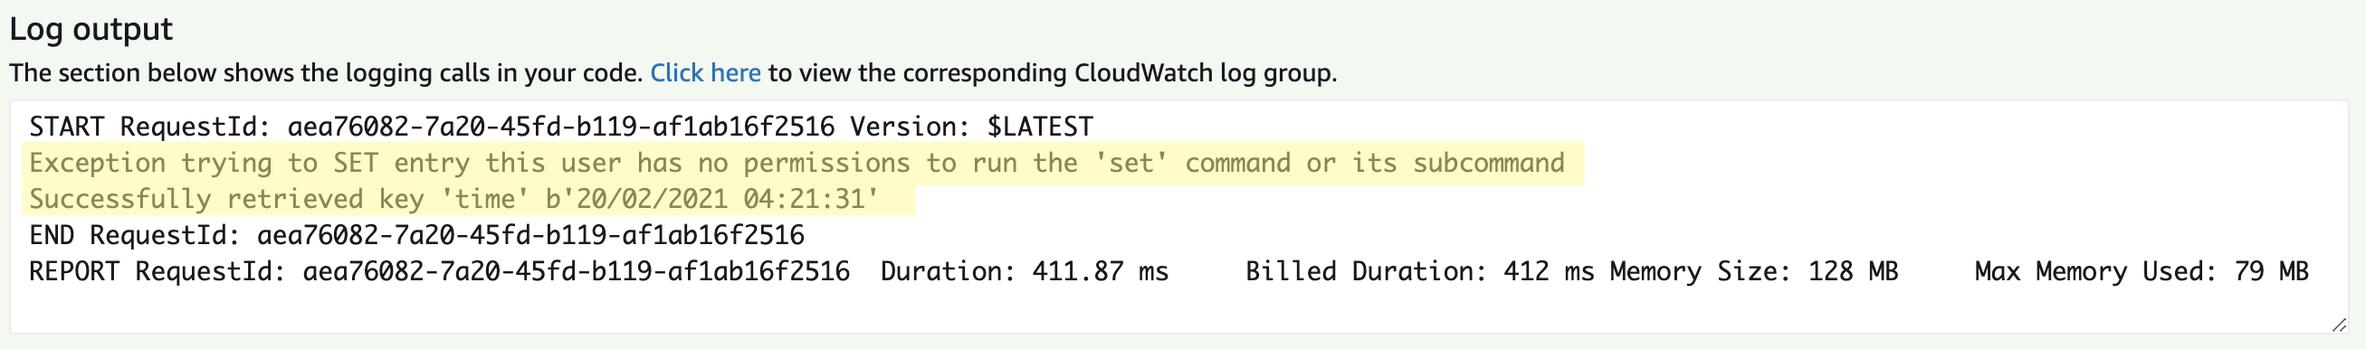
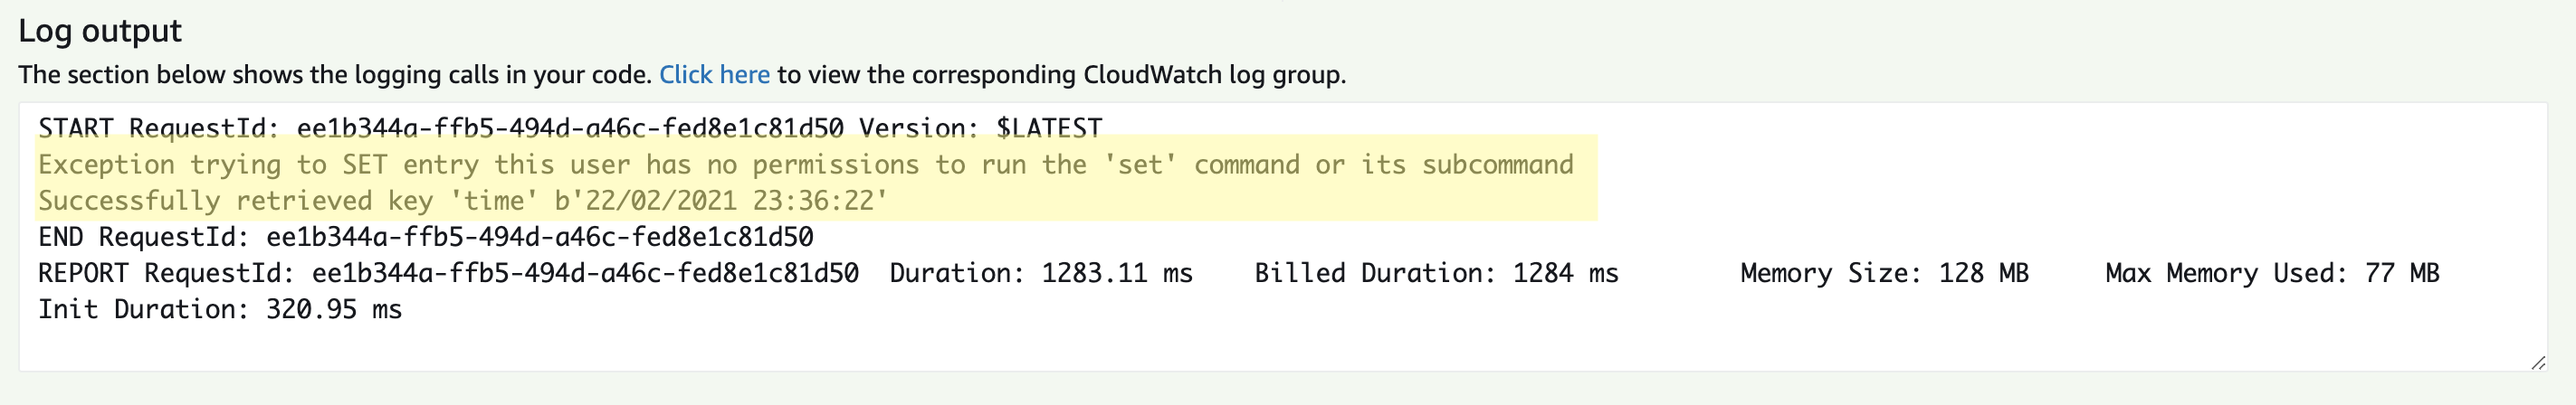
Added architecture documentation and updated images

diff --git a/docs/architecture.md b/docs/architecture.md
@@ -1,0 +1,284 @@
+# AWS ElastiCache support for Redis Role Based Access Control (RBAC)
+
+With Amazon ElastiCache for Redis 6, you can control cluster access via a feature called Role-Based Access Control (RBAC).  Through RBAC, you can define Access Control Lists (ACLs) that model access patterns – allowing you to better define who can access a Redis cluster and what commands and keys they can access.
+
+When configured for RBAC, ElastiCache Redis replication groups will authenticate RBAC users based on the username and password provided when connections are established, and Redis commands and key access are authorized by the access strings (defined in Redis ACL syntax) for each RBAC user.
+
+![rbac user](img/rbac_user_example.png)
+
+Redis RBAC users and ACLs, however, are not linked to AWS Identity Access Management (IAM) roles, groups or users; the dissociation between AWS IAM and Redis RBAC means that there is no out-of-the-box way to grant IAM entities (roles, users or groups) read and write access to Redis.
+
+In this blog, we will present a solution that will allow you to associate IAM entities with ElastiCache RBAC users and ACLs. The overall solution will demonstrate how RBAC users can effectively be associated with IAM through the user of AWS Secrets Manager as a proxy for granting access to RBAC user credentials.
+
+*	A set of Redis RBAC users will be defined; each with usernames, passwords and ACL access strings – this will define the commands and keys that a user has access to.
+
+*	IAM entities (roles, users, groups) will be granted access to RBAC user credentials (username and password) stored in AWS Secrets Manager through secret policies and IAM policies.
+
+*	Users, applications and services that have roles or users that can access RBAC user credentials from Secrets Manager can then use them to connect to ElasticacheRedis by assuming an RBAC user – which will also define which commands and keys they have access to.
+
+## Design: Managing ElastiCache Redis access with RBAC, AWS SecretsManager and AWS IAM
+
+### Storing Redis RBAC passwords in SecretsManager
+
+When RBAC users are created (either via AWS CLI, AWS API or AWS Cloudformation), they are specified with a plaintext password and a username.  These usernames and passwords must be shared with the actors who will access the Redis replication group via RBAC users (human users or applications).
+
+The solution that we will present will leverage Secrets Manager to generate a password that will be used when the RBAC user is created meaning that no plaintext passwords exposed and must be retrieved through Secrets Manager.
+
+### Managing access to RBAC passwords in SecretsManager with IAM
+
+Access to secrets in SecretsManager can be restricted to specific IAM entity – these entities can then retrieve the username and password by making the appropriate AWS API or CLI call.
+
+### Tying it together: Managing access to Redis with RBAC, SecretsManager and IAM
+
+The combination of IAM policies of an IAM entity and the policies associated with the secret will determine which entities will be able to access the secret – and the RBAC username and password stored within; effectively linking an IAM entity with an RBAC user.
+
+![rbac user actor flow](img/rbac_actor_flow.png)
+
+The above diagram demonstrates the flow of the solution. First, an actor with an IAM role that has permissions to the “Producer Credentials” secret reads the secret from AWS Secrets manager (1, 2); the actor then establishes a connection with the Producer credentials to an ElastiCache replication group that is configured with an RBAC user group that has the Producer RBAC User in it (3).  Once authenticated (4), the user can perform commands and access keys (5), however the commands and keys that can be accessed are dictated by the access string on the Producer RBAC user.
+
+## Implementation in AWS Cloud Development Kit (CDK)
+
+We present the solution to you in AWS Cloud Development Kit (CDK), which is a software development framework that defines infrastructure through object-oriented programming languages -- in our case, Typescript.
+
+The following will be deployed:
+* One VPC with isolated subnets, one AWS Secrets Manager VPC endpoint
+* One security group with an ingress rule that allows all traffic in via port 6379
+* Three ElasticaCache RBAC users: default, consumer, producer
+* Three secrets: default, producer, consumer
+* One ElastiCache RBAC user group
+* One ElastiCache subnet group
+* One ElastiCache replication group
+* Three IAM roles: consumer, producer, outsider
+* One Lambda layer which contains the redis-py Python module
+* Three Lambda functions: producerFn, consumerFn, outsiderFn
+
+![architecture diagram](img/architecture_diagram_no_flow.png)
+
+A VPC is created for the purpose of hosting the ElastiCache replication group and the Lambda functions that will be used to demonstrate how to access ElastiCache.  The code snippet defines the VPC with an isolated subnet, which in CDK terms, is a private subnet with no routing to the Internet.  In order for resources in the isolated subnet to access Secrets Manager, a Secrets Manager VPC Interface Endpoint is added.
+
+
+```
+const vpc = new ec2.Vpc(this, "Vpc", {
+      subnetConfiguration: [
+        {
+          cidrMask: 24,
+          name: 'Isolated',
+          subnetType: ec2.SubnetType.ISOLATED,
+        }
+      ]
+    });
+
+    const secretsManagerEndpoint = vpc.addInterfaceEndpoint('SecretsManagerEndpoint', {
+      service: ec2.InterfaceVpcEndpointAwsService.SECRETS_MANAGER,
+      subnets: {
+        subnetType: ec2.SubnetType.ISOLATED
+      }
+    });
+
+secretsManagerEndpoint.connections.allowDefaultPortFromAnyIpv4();
+
+```
+
+To modularize the design of the solution, a RedisRbacUser class is also created.  This class is composed of two CDK resources: a Secrets Manager Secret and an ElastiCache CfnUser; these resources are explicitly grouped together since the Secret stores the CfnUser password, and as will be shown later, read and decrypt permissions to the Secret will be granted to an IAM user.
+
+```
+export class RedisRbacUser extends cdk.Construct {
+  ...
+
+  constructor(scope: cdk.Construct, id: string, props: RedisRbacUserProps) {
+    super(scope, id);
+
+    ...
+
+    this.rbacUserSecret = new secretsmanager.Secret(this, 'secret', {
+      generateSecretString: {
+        secretStringTemplate: JSON.stringify({ username: props.redisUserName }),
+        generateStringKey: 'password',
+        excludeCharacters: '@%*()_+=`~{}|[]\\:";\'?,./'
+      },
+    });
+
+    const user = new elasticache.CfnUser(this, 'redisuser', {
+      engine: 'redis',
+      userName: props.redisUserName,
+      accessString: props.accessString? props.accessString : "off +get ~keys*",
+      userId: props.redisUserId,
+      passwords: [this.rbacUserSecret.secretValueFromJson('password').toString()]
+    })
+
+    ...
+
+  }
+
+}
+```
+
+The RedisRbacUser class is instantiated in the following code snippet, with an example of the Redis ACL syntax used in the accessString.
+
+```
+  const producerRbacUser = new RedisRbacUser(this, producerName+'RBAC', {
+      redisUserName: producerName,
+      redisUserId: producerName,
+      accessString: 'on ~* -@all +SET'
+    });
+```
+
+An IAM role is granted the ability to read the RedisRbacUser’s secret (the username and password). This association means that the IAM role can decrypt the username and password and use them to establish a connection with Redis as the producerRbacUser.
+
+```
+  const producerRole = new iam.Role(this, producerName+'Role', {
+      ...
+    });
+
+    producerRbacUser.grantSecretRead(producerRole)
+```
+
+The function grantSecretRead in the RedisRbacUser class modifies the role that is passed into it to allow it to perform actions “secretsmanager:GetSecretValue” and “secretsmanager:DescribeSecret”.  The same function also modifies the secret by adding a resource policy that allows the same actions and adds the provided role to the principal list – this prevents unlisted principals from attempting to access the secret once the stack is deployed.
+
+```
+  public grantReadSecret(principal: iam.IPrincipal){
+    if (this.secretResourcePolicyStatement == null) {
+      this.secretResourcePolicyStatement = new iam.PolicyStatement({
+        effect: iam.Effect.ALLOW,
+        actions: ['secretsmanager:DescribeSecret', 'secretsmanager:GetSecretValue'],
+        resources: [this.rbacUserSecret.secretArn],
+        principals: [principal]
+      })
+
+      this.rbacUserSecret.addToResourcePolicy(this.secretResourcePolicyStatement)
+
+    } else {
+      this.secretResourcePolicyStatement.addPrincipals(principal)
+    }
+
+    this.rbacUserSecret.grantRead(principal)
+  }
+```
+
+A Lambda function then uses the IAM role created previously, so that it can decrypt the username and password Secret and access the ElastiCache for Redis replication group.
+
+```
+    const producerLambda = new lambda.Function(this, producerName+'Fn', {
+      ...
+      role: producerRole,
+      ...
+      environment: {
+        redis_endpoint: ecClusterReplicationGroup.attrPrimaryEndPointAddress,
+        redis_port: ecClusterReplicationGroup.attrPrimaryEndPointPort,
+        secret_arn: producerRbacUser.getSecret().secretArn,
+      }
+    });
+```
+
+## Deploying the solution
+
+The infrastructure for this solution is implemented in AWS Cloud Development Kit (CDK) in Typescript and can be cloned from this GitHub repository.
+
+You can setup your environment for CDK by following the AWS Cloud Development Kit Getting Started document here: https://docs.aws.amazon.com/cdk/latest/guide/getting_started.html#getting_started_prerequisites
+
+To deploy the solution, you’ll first want to build the lambda zip files that will be used in the Lambda functions; to do so, navigate to the root of the project on your machine and enter the following command in your terminal:
+
+``` $ npm run-script zip ```
+
+To deploy the solution to your account, run the following command from the root of the project:
+
+``` $ cdk deploy ```
+
+The command will attempt to deploy the solution in the default AWS profile defined in either your `~/.aws/config` file or your `~/.aws/credentials` file.  You can also define a profile by specifying the `--profile profile_name` at the end of the command.
+
+## Testing the solution
+
+Three Lambda functions were deployed as a part of the stack: a Producer, a Consumer and an Outsider function.
+
+### Creating a Test JSON for each function
+
+To test each function, you’ll need to create a test event for each.  To create a test object, click the ‘Test’ button in the Lambda console and use the default JSON object in the body – the test functions will not read the event contents.
+
+![test json](img/test_trigger.png)
+
+You can trigger each test by clicking on the test button
+
+![test button](img/test_button.png)
+
+### Producer Function Reads and Writes to Redis
+
+This function demonstrates how an IAM role, attached to a Lambda function can be used to retrieve a username and password from Secrets Manager, then use these credentials to establish a connection to Redis and peform a write operation.
+
+The Producer function will write a key “time” with a value of the current time.
+
+![producer log output](img/producer_log_output.png)
+
+The Producer function will be able to write to Redis, and that is because it’s IAM role allows it to get and decrypt the ‘Producer’ username and password in Secrets Manager and its RBAC user was created with an Redis ACL Access String that allows all SET commands to be performed
+
+### Consumer Function Can Read but Cannot Write to Redis
+
+This function demonstrates the use case where you can allow a specific IAM role to access a Redis RBAC username and password from Secrets Manager and establish a connection with Redis, but the actions it can perform are restricted by an access string setting.
+
+The Consumer function will attempt to write a key “time” with a value of the current time; it will subsequently attempt to read back the key “time”.
+
+![consumer log output](img/consumer_log_output.png)
+
+The Consumer function will not be able to write to Redis, but it will be able to read from it.  Even though the function has an IAM role that permits it to get and decrypt the ‘Consumer’ username and password in Secrets Manager, the ‘Consumer’ RBAC user was created with a Redis ACL Access String value that only allows the ‘GET’ command.
+
+
+### Outsider Function Cannot Read and Cannot Write to Redis
+
+This function demonstrates the use case where you can specify an IAM role that cannot access Redis because it cannot decrypt a username and password stored in Secrets Manager.
+
+The Outsider Lambda function will attempt to get and decrypt the ‘Producer’ username and password from Secrets Manager, then read and write to the Redis cluster.
+
+![outsider log output](img/outsider_log_output.png)
+
+An exception is raised that indicates that it is not permitted to access the ‘Producer’ secret and that is because the IAM role attached to it does not have the permissions to decrypt the ‘Producer’ secret.
+
+## Cost of Running the Solution
+
+The solution to associate an IAM entity with an ElastiCache RBAC user required the deployment of a sample ElastiCache cluster, storing secrets in AWS Secrets Manager and defining an RBAC user and an RBAC user group.
+
+* Secrets Manager:
+  * $0.40 per secret per month, prorated for secrets stored less than a month
+  * $0.05 per 10000 API calls
+  * Assuming each of the three secrets are called 10 times for testing purposes in one day, the total cost would be (3 * $0.40 / 30) + (3 * 10 / 1000) * $0.05 = $0.04015
+
+* ElastiCache:
+  * cache.m4.large node $0.156 per hour
+  * Assuming that the node used for one day the total cost would be $3.744
+
+* Lambda Function:
+  * $0.0000000021 per ms of execution time
+  * Assuming that each lambda is called 10 times for testing purposes in one day and that the average execution time is 400ms, the total cost would be 3 * 400 * $0.000000021 = $0.00000252
+
+The total cost of the solution, for 24 hours, assuming that each of the three Lambda functions are called 10 times would be $3.78415252.
+
+## Cleanup and Teardown
+
+To delete all resources from your account, including the VPC, you will need to call the following command from the project root folder:
+
+`$ cdk destroy`
+
+
+As in the cdk deploy command, the destroy command will attempt to execute on the default profile defined in ~/.aws/config or ~/.aws/credentials.  You can specify another profile by providing --profile as a command line option.
+
+## Conclusion
+
+While fine-grained access is now possible with the inclusion of Redis Role Based Access Control (RBAC) users, user groups and access strings in Amazon ElastiCache, there is no out-of-the box ability to associate RBAC users with IAM entities (roles, users and groups). This blog post presented a solution that restricted RBAC credentials (userame and password) access by storing them in AWS Secrets Manager and granting select IAM entities permissions to decrypt these credentials – effectively linking RBAC users with IAM roles.
+
+### Additional benefits presented in this solution include:
+
+* RBAC passwords are not defined, stored or shared in plaintext when RBAC users are created
+* RBAC users and groups can be defined wholly in CDK (and by extension CloudFormation) and included as infrastructure-as-code
+* You can trace Redis access to IAM users since RBAC usernames and passwords are stored and accessed through AWS Secrets Manager and access to these credentials can be traced via CloudTrail
+
+
+### Additional Resources
+
+* Amazon ElastiCache for Redis adds support for Redis 6 with managed Role-Based Access Control (RBAC)
+https://aws.amazon.com/about-aws/whats-new/2020/10/amazon-elasticache-redis-support-managed-role-based-access-control/
+
+* Authenticating Users with Role-Based Access Control (RBAC) https://docs.aws.amazon.com/AmazonElastiCache/latest/red-ug/Clusters.RBAC.html
+
+* Granting read access to one secret
+https://docs.aws.amazon.com/secretsmanager/latest/userguide/permissions_grant-get-secret-value-to-one-secret.html
+
+* Redis ACL
+https://redis.io/topics/acl

diff --git a/README.md b/README.md
@@ -4,6 +4,8 @@ This project demonstrates how to manage access to ElastiCache Redis by storing R
 
 This project creates an ElastiCache Redis Replication group, IAM roles, Lambdas, Secrets and ElastiCache RBAC users and user groups.
 
+Details on the architecture can be found [here](docs/architecture.md)
+
 ## Installing CDK
 
 This project uses the AWS Cloud Development Kit (CDK). You can find instructions on installing CDK [here](https://docs.aws.amazon.com/cdk/latest/guide/getting_started.html#getting_started_install)
